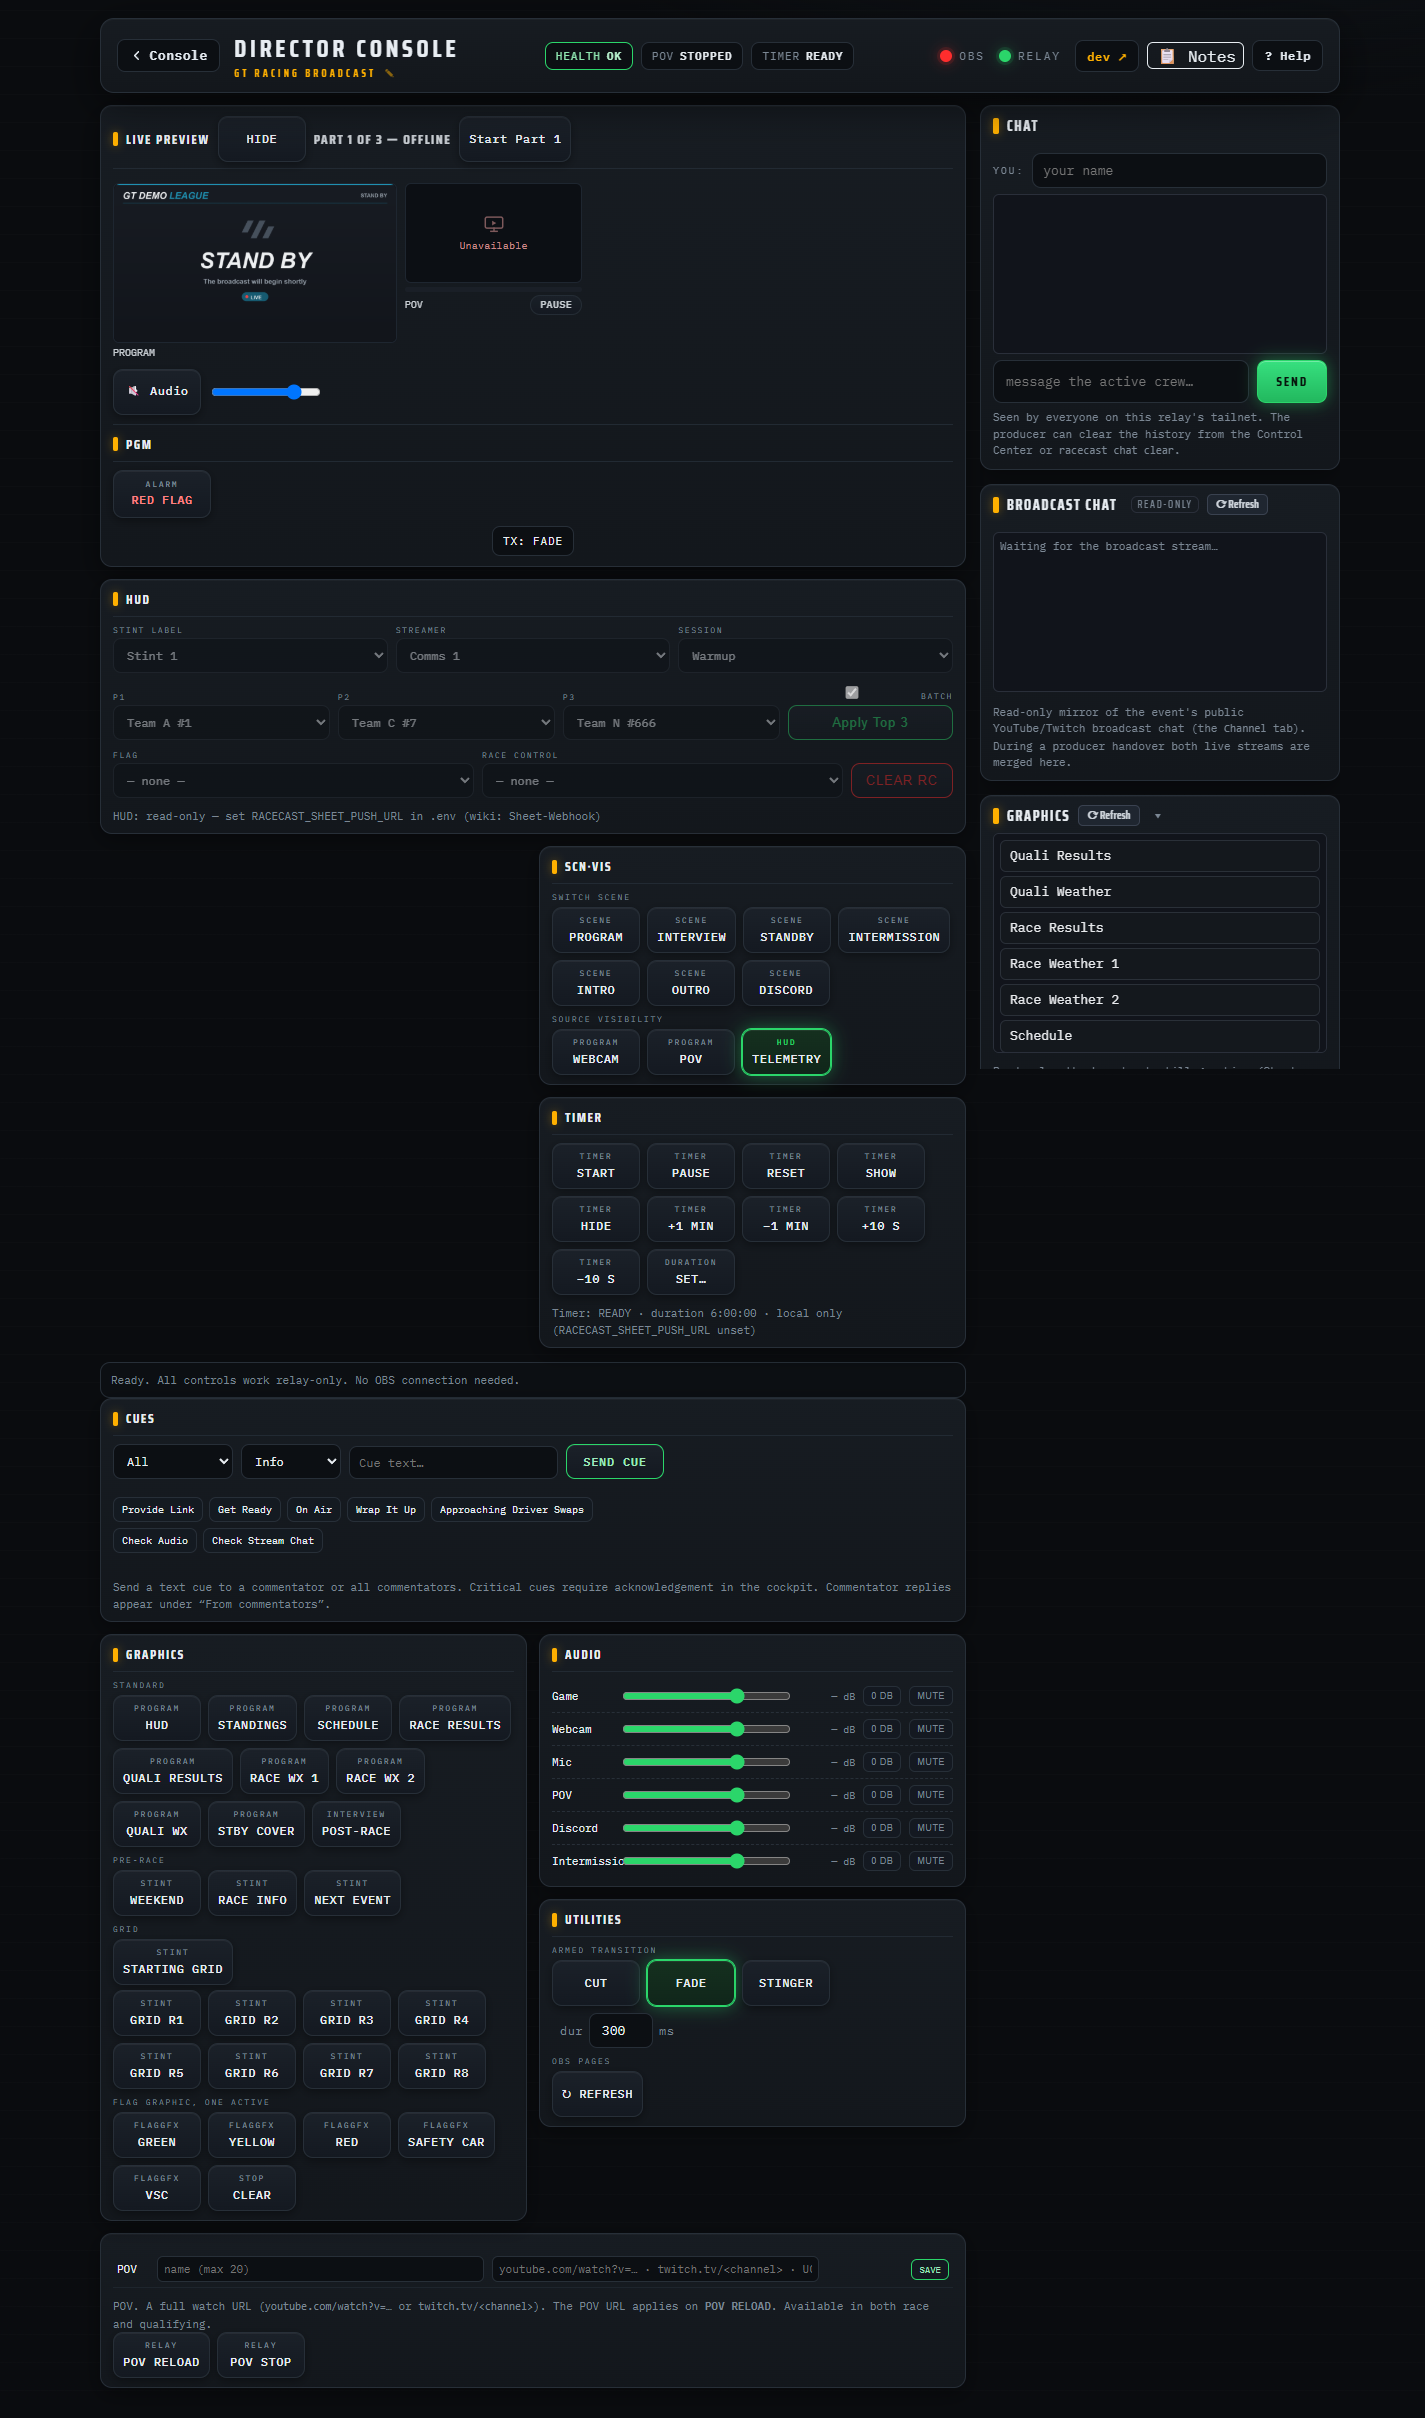
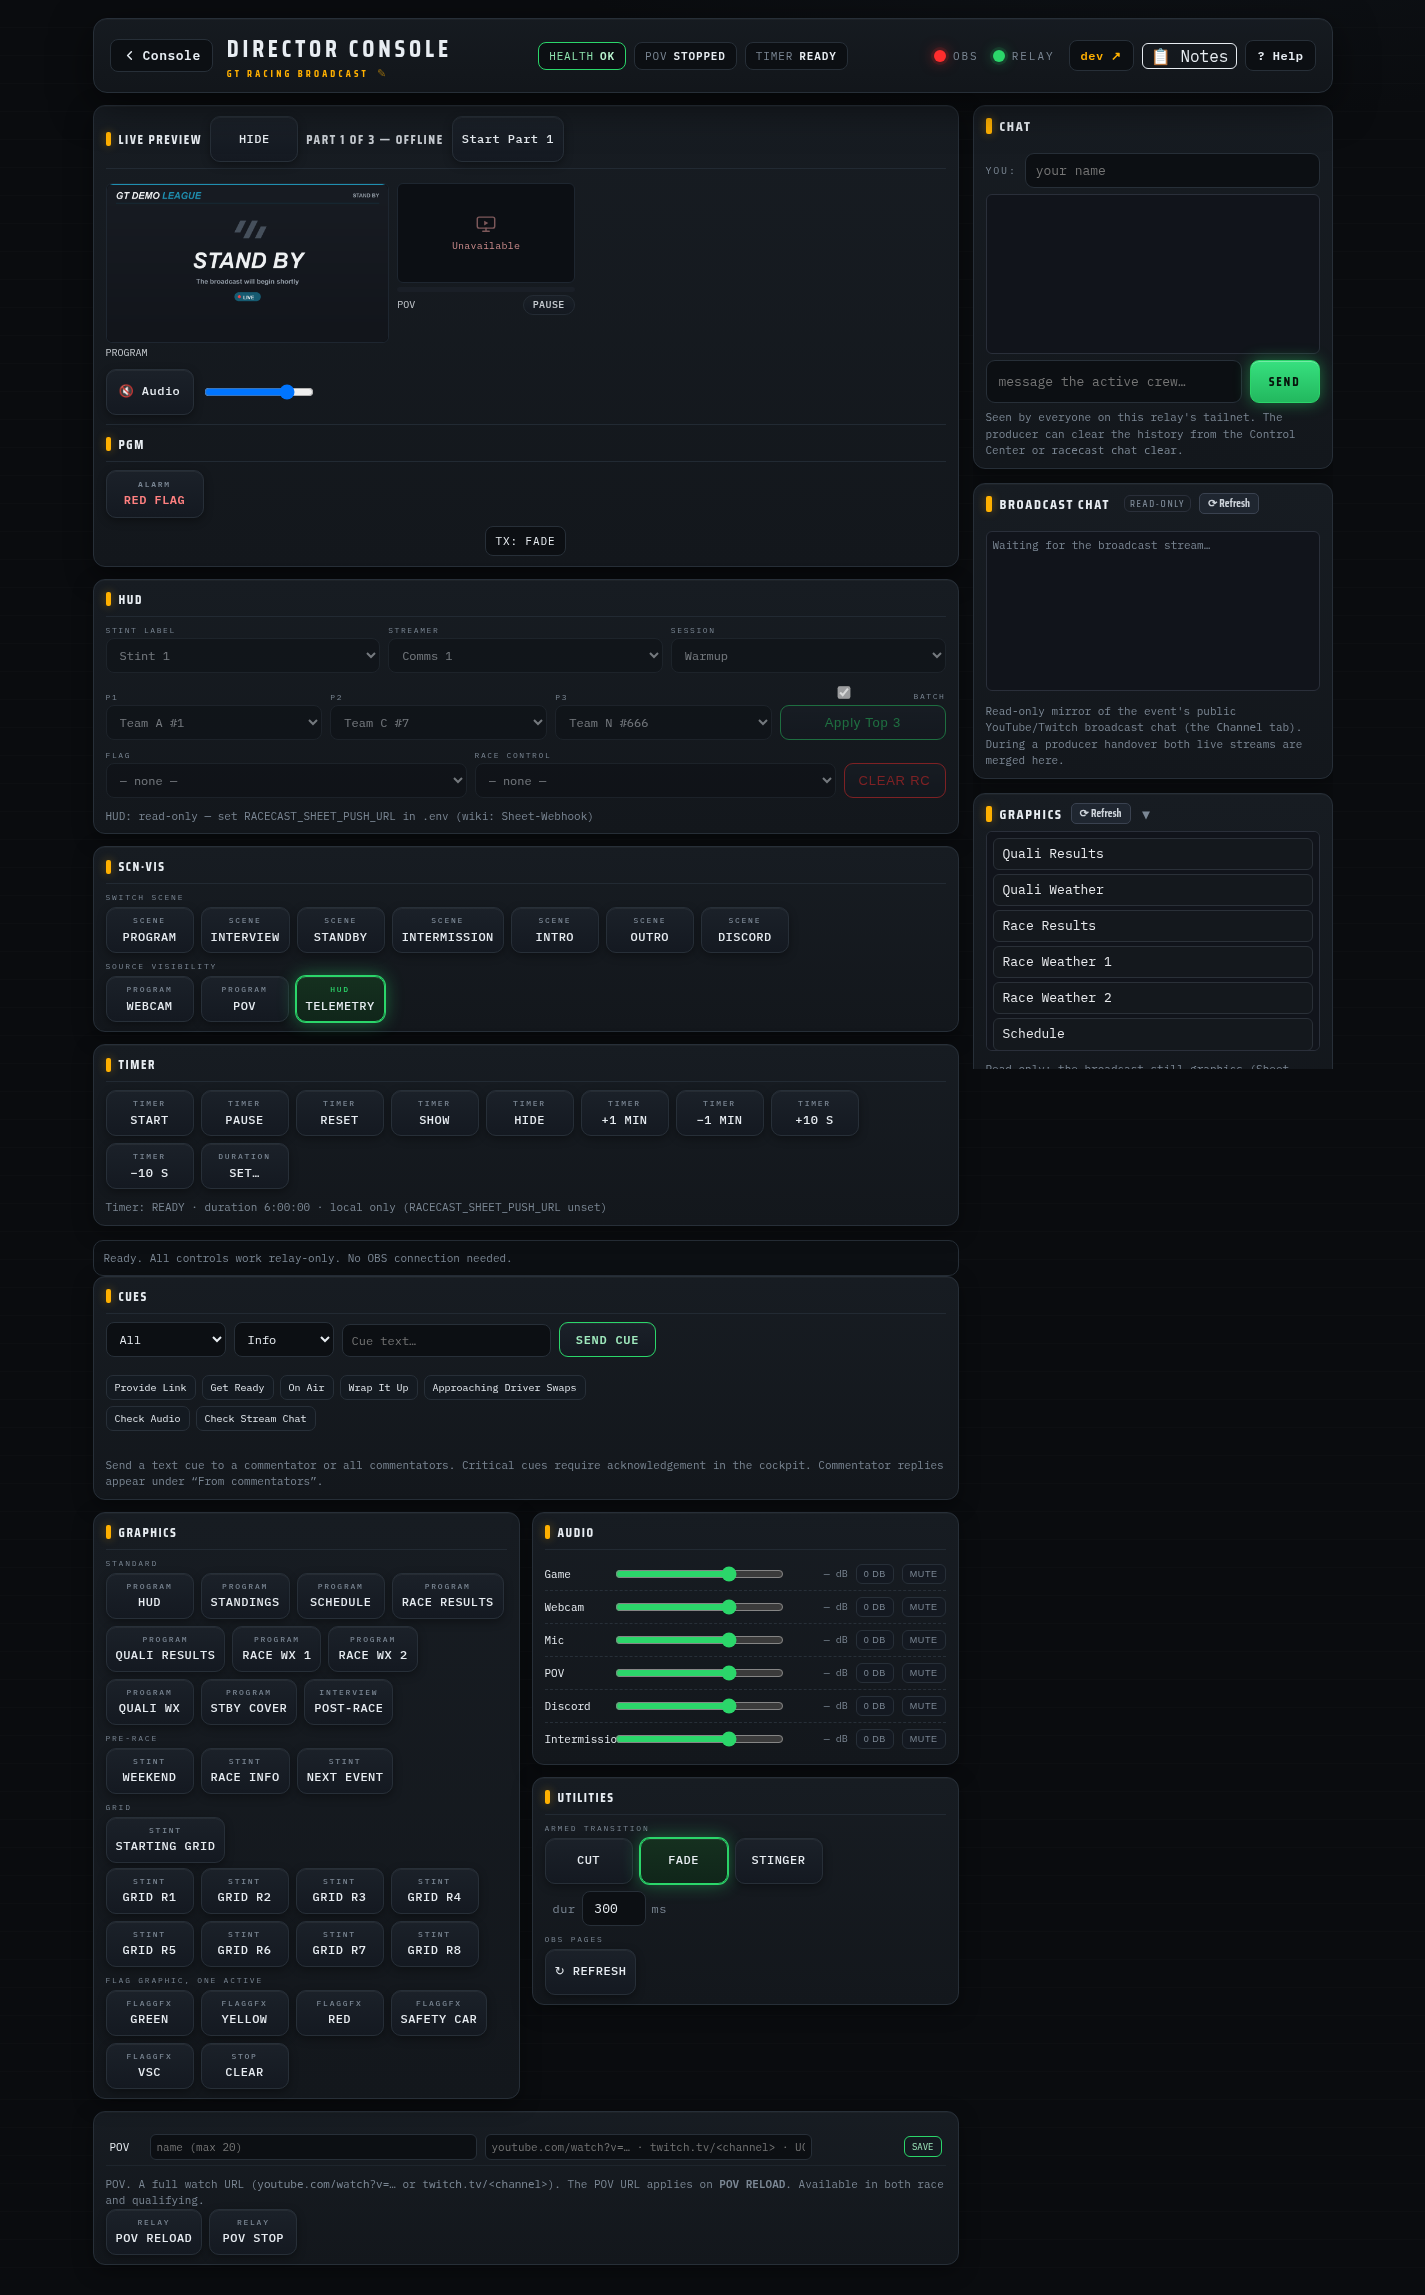
fix(director): collapse the empty Feeds column in the solo panel (#700) (#705)
* fix(director): collapse the empty Feeds column in the solo panel (#700)

* docs: refresh the solo Director Panel screenshot (#700)

* fix(director): clarify the solo column comment

---------

diff --git a/src/director/director-panel.html b/src/director/director-panel.html
@@ -500,6 +500,7 @@
   /* Kind-conditional cut (#307): in solo, hide the A/B feed, schedule and
      submission surfaces and reveal the POV editor, which lives inside #urlsBox, as
      its own card. Endurance sets no `.solo` class and is unaffected. */
+  body.solo #feedsCol,
   body.solo #feedsSec,
   body.solo #stA,
   body.solo #stB,
@@ -511,6 +512,8 @@
   body.solo #qualSched,
   body.solo #modeSwitch,
   body.solo #subsBox { display: none !important; }
+  /* Feeds is the only left column of this block, so Scn·Vis and Timer take its full width. */
+  body.solo #ctlCols{grid-template-columns:1fr}
 </style>
 </head>
 <body>
@@ -615,8 +618,8 @@
     </div>
   </section>
 
-  <div class="cols">
-    <div class="colstack">
+  <div class="cols" id="ctlCols">
+    <div class="colstack" id="feedsCol">
   <section class="bus" id="feedsSec"><div class="cap">Feeds</div>
     <div class="body">
       <div class="keys" id="feedsBus"></div>

diff --git a/tests/test_director_panel.py b/tests/test_director_panel.py
@@ -317,6 +317,20 @@ def t_solo_telemetry_toggle():
     assert "teleVisBtn.hidden = !d.telemetry" in html
 
 
+def t_solo_collapses_the_feeds_column():
+    h = _html()
+    assert '<div class="cols" id="ctlCols">' in h, "the Feeds|Scn-Vis block carries its own id"
+    assert '<div class="colstack" id="feedsCol">' in h, "the Feeds column carries its own id"
+    _order(h, 'id="feedsCol"', 'id="feedsSec"', '<div class="cap">Scn·Vis</div>')
+    hide = h[h.index("Kind-conditional cut (#307)"):]
+    hide = hide[:hide.index("{ display: none !important; }")]
+    assert "body.solo #feedsCol" in hide, "solo hides the whole Feeds column, not only its card"
+    assert "body.solo #ctlCols{grid-template-columns:1fr}" in h, \
+        "solo gives Scn-Vis and Timer the full width"
+    assert "body.solo .cols{" not in h and "body.solo .cols {" not in h, \
+        "the Graphics|Audio block keeps its two columns in solo"
+
+
 if __name__ == "__main__":
     for name, fn in sorted(globals().items()):
         if name.startswith("t_") and callable(fn):
